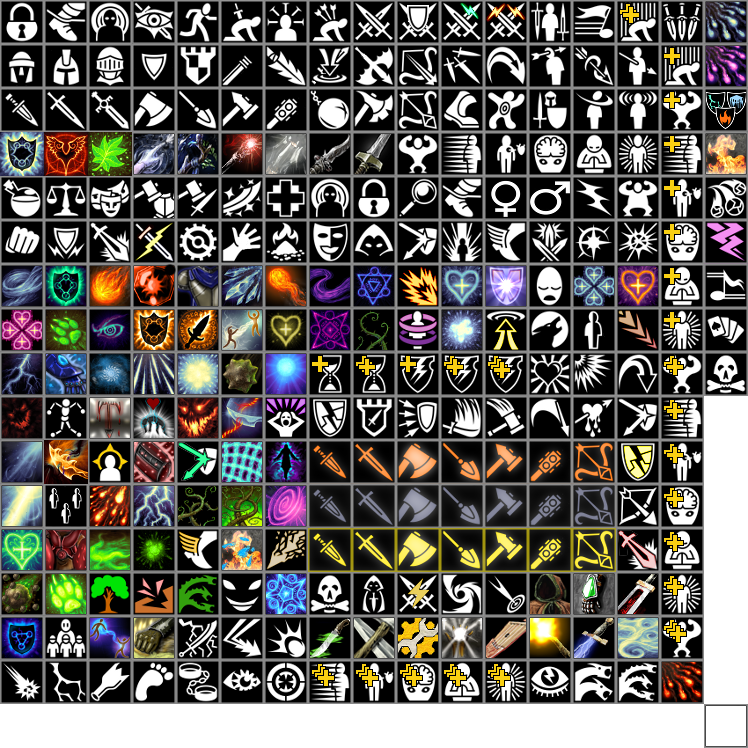
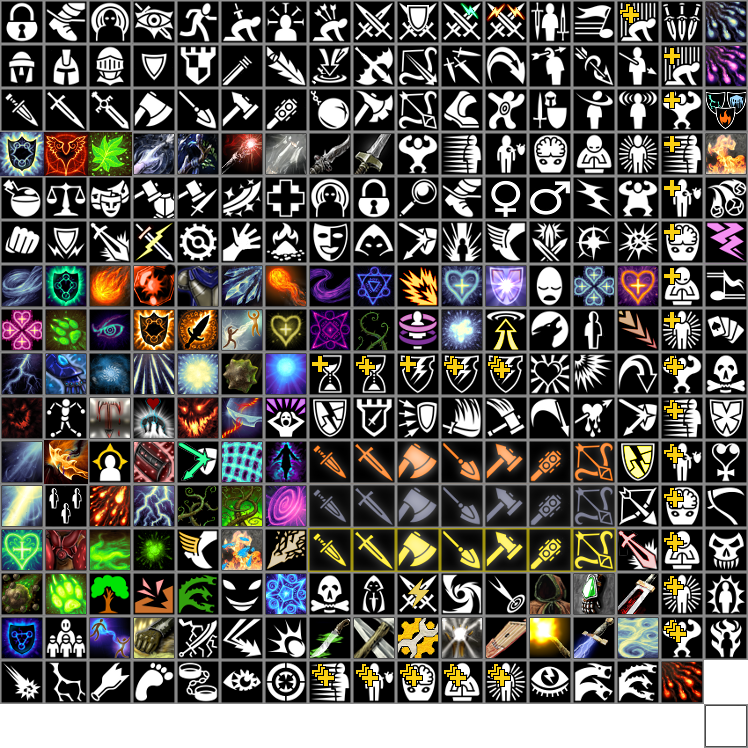
finished Bard specialization

Changed region(s): [[0.9225, 0.5227, 1.0, 0.8917]]

diff --git a/trunk/core/scripts/effects/songOfSlaying.js b/trunk/core/scripts/effects/songOfSlaying.js
@@ -3,33 +3,36 @@ function onTargetEnter(game, target, aura) {
 	var parent = slot.getParent();
 	var casterLevel = parent.getCasterLevel();
 	
-	if (parent.getFaction().isHostile(target)) {
+	if (parent.getFaction().isFriendly(target)) {
 		var targetEffect = slot.createEffect();
-		targetEffect.setTitle("Curse Song");
+		targetEffect.setTitle("Song of Slaying");
 		targetEffect.setRemoveOnDeactivate(true);
 		aura.addChildEffect(targetEffect);
 	
 		var chaBonus = (parent.stats().getCha() - 10);
 		var lvls = parent.getRoles().getLevel("Bard");
 	
-		var penalty = parseInt((lvls + chaBonus) / 2);
+		var bonus = 20 + 4 * lvls + 4 * chaBonus;
+		var halfBonus = parseInt(bonus / 2);
 	
-		targetEffect.getBonuses().addPenalty('Dex', 'Luck', -penalty);
-		targetEffect.getBonuses().addPenalty('Str', 'Luck', -penalty);
+		targetEffect.getBonuses().addBonus('Damage', 'Luck', bonus);
+		targetEffect.getBonuses().addBonus('SpellDamage', 'Luck', halfBonus);
 		
-		if (parent.getAbilities().has("SongOfEnemies"))
-			targetEffect.getBonuses().addPenalty('Attack', 'Luck', -10 - chaBonus);
+		if (parent.getAbilities().has("SongOfAllies"))
+			targetEffect.getBonuses().addBonus('Con', 'Luck', parseInt(chaBonus / 2) );
 		
 		target.applyEffect(targetEffect);
-	} else if (parent.getAbilities().has("SongOfAllies") && parent.getFaction().isFriendly(target)) {
+	} else if (parent.getAbilities().has("SongOfEnemies") && parent.getFaction().isHostile(target)) {
+	
 		var targetEffect = slot.createEffect();
-		targetEffect.setTitle("Curse Song");
+		targetEffect.setTitle("Song of Slaying");
 		targetEffect.setRemoveOnDeactivate(true);
 		aura.addChildEffect(targetEffect);
 	
 		var chaBonus = (parent.stats().getCha() - 10);
 		
-		targetEffect.getBonuses().addBonus('Con', 'Luck', parseInt(chaBonus / 2) );
+		targetEffect.getBonuses().addPenalty('Attack', 'Luck', -10 - chaBonus);
+		
 		target.applyEffect(targetEffect);
 	}
 }
@@ -37,12 +40,12 @@ function onTargetEnter(game, target, aura) {
 function onTargetExit(game, target, aura) {
 	var parent = aura.getSlot().getParent();
 
-	if (parent.getFaction().isHostile(target)) {
+	if (parent.getFaction().isFriendly(target)) {
 		var targetEffect = aura.getChildEffectWithTarget(target);
    
 		target.removeEffect(targetEffect);
 		aura.removeChildEffect(targetEffect);
-	} else if (parent.getAbilities().has("SongOfAllies") && parent.getFaction().isFriendly(target)) {
+	} else if (parent.getAbilities().has("SongOfEnemies") && parent.getFaction().isHostile(target)) {
 		var targetEffect = aura.getChildEffectWithTarget(target);
    
 		target.removeEffect(targetEffect);

diff --git a/trunk/core/scripts/effects/defendersRhythm.js b/trunk/core/scripts/effects/defendersRhythm.js
@@ -3,33 +3,35 @@ function onTargetEnter(game, target, aura) {
 	var parent = slot.getParent();
 	var casterLevel = parent.getCasterLevel();
 	
-	if (parent.getFaction().isHostile(target)) {
+	if (parent.getFaction().isFriendly(target)) {
 		var targetEffect = slot.createEffect();
-		targetEffect.setTitle("Curse Song");
+		targetEffect.setTitle("Defender's Rhythm");
 		targetEffect.setRemoveOnDeactivate(true);
 		aura.addChildEffect(targetEffect);
 	
 		var chaBonus = (parent.stats().getCha() - 10);
 		var lvls = parent.getRoles().getLevel("Bard");
 	
-		var penalty = parseInt((lvls + chaBonus) / 2);
+		var bonus = 10 + 2 * lvls + 2 * chaBonus;
 	
-		targetEffect.getBonuses().addPenalty('Dex', 'Luck', -penalty);
-		targetEffect.getBonuses().addPenalty('Str', 'Luck', -penalty);
+		targetEffect.getBonuses().addBonus('ArmorClass', 'Luck', bonus);
+		targetEffect.getBonuses().addBonus('ArmorPenalty', 'Luck', bonus);
 		
-		if (parent.getAbilities().has("SongOfEnemies"))
-			targetEffect.getBonuses().addPenalty('Attack', 'Luck', -10 - chaBonus);
+		if (parent.getAbilities().has("SongOfAllies"))
+			targetEffect.getBonuses().addBonus('Con', 'Luck', parseInt(chaBonus / 2) );
 		
 		target.applyEffect(targetEffect);
-	} else if (parent.getAbilities().has("SongOfAllies") && parent.getFaction().isFriendly(target)) {
+	} else if (parent.getAbilities().has("SongOfEnemies") && parent.getFaction().isHostile(target)) {
+	
 		var targetEffect = slot.createEffect();
-		targetEffect.setTitle("Curse Song");
+		targetEffect.setTitle("Defender's Rhythm");
 		targetEffect.setRemoveOnDeactivate(true);
 		aura.addChildEffect(targetEffect);
 	
 		var chaBonus = (parent.stats().getCha() - 10);
 		
-		targetEffect.getBonuses().addBonus('Con', 'Luck', parseInt(chaBonus / 2) );
+		targetEffect.getBonuses().addPenalty('Attack', 'Luck', -10 - chaBonus);
+		
 		target.applyEffect(targetEffect);
 	}
 }
@@ -37,12 +39,12 @@ function onTargetEnter(game, target, aura) {
 function onTargetExit(game, target, aura) {
 	var parent = aura.getSlot().getParent();
 
-	if (parent.getFaction().isHostile(target)) {
+	if (parent.getFaction().isFriendly(target)) {
 		var targetEffect = aura.getChildEffectWithTarget(target);
    
 		target.removeEffect(targetEffect);
 		aura.removeChildEffect(targetEffect);
-	} else if (parent.getAbilities().has("SongOfAllies") && parent.getFaction().isFriendly(target)) {
+	} else if (parent.getAbilities().has("SongOfEnemies") && parent.getFaction().isHostile(target)) {
 		var targetEffect = aura.getChildEffectWithTarget(target);
    
 		target.removeEffect(targetEffect);

diff --git a/trunk/core/scripts/effects/healingSong.js b/trunk/core/scripts/effects/healingSong.js
@@ -1,3 +1,19 @@
+function onRoundElapsed(game, aura) {
+	var parent = aura.getSlot().getParent();
+	
+	var chaBonus = (parent.stats().getCha() - 10);
+	var lvls = parent.getRoles().getLevel("Bard");
+	
+	var bonus = parseInt( (chaBonus + lvls) / 2 );
+
+    var targets = game.currentArea().getAffectedCreatures(aura);
+	for (var i = 0; i < targets.size(); i++) {
+		var target = targets.get(i);
+		
+		target.healDamage(bonus);
+	}
+}
+
 function onTargetEnter(game, target, aura) {
 	var slot = aura.getSlot();
 	var parent = slot.getParent();
@@ -5,19 +21,11 @@ function onTargetEnter(game, target, aura) {
 	
 	if (parent.getFaction().isFriendly(target)) {
 		var targetEffect = slot.createEffect();
-		targetEffect.setTitle("Song of Luck");
+		targetEffect.setTitle("Healing Song");
 		targetEffect.setRemoveOnDeactivate(true);
 		aura.addChildEffect(targetEffect);
 	
 		var chaBonus = (parent.stats().getCha() - 10);
-		var lvls = parent.getRoles().getLevel("Bard");
-	
-		var bonus = 10 + 2 * lvls + 2 * chaBonus;
-	
-		targetEffect.getBonuses().addBonus('Attack', 'Luck', bonus);
-		targetEffect.getBonuses().addBonus('SpellFailure', 'Luck', bonus);
-		targetEffect.getBonuses().addSkillBonus('Locks', 'Luck', bonus);
-		targetEffect.getBonuses().addSkillBonus('Traps', 'Luck', bonus);
 		
 		if (parent.getAbilities().has("SongOfAllies"))
 			targetEffect.getBonuses().addBonus('Con', 'Luck', parseInt(chaBonus / 2) );
@@ -26,7 +34,7 @@ function onTargetEnter(game, target, aura) {
 	} else if (parent.getAbilities().has("SongOfEnemies") && parent.getFaction().isHostile(target)) {
 	
 		var targetEffect = slot.createEffect();
-		targetEffect.setTitle("Song of Luck");
+		targetEffect.setTitle("Healing Song");
 		targetEffect.setRemoveOnDeactivate(true);
 		aura.addChildEffect(targetEffect);
 	

diff --git a/trunk/core/scripts/effects/mortalitySong.js b/trunk/core/scripts/effects/mortalitySong.js
@@ -5,17 +5,18 @@ function onTargetEnter(game, target, aura) {
 	
 	if (parent.getFaction().isHostile(target)) {
 		var targetEffect = slot.createEffect();
-		targetEffect.setTitle("Curse Song");
+		targetEffect.setTitle("Mortality Song");
 		targetEffect.setRemoveOnDeactivate(true);
 		aura.addChildEffect(targetEffect);
 	
 		var chaBonus = (parent.stats().getCha() - 10);
 		var lvls = parent.getRoles().getLevel("Bard");
 	
-		var penalty = parseInt((lvls + chaBonus) / 2);
+		var conPenalty = parseInt((lvls + chaBonus) / 2);
+		var acPenalty = 10 + 2 * lvls + 2 * chaBonus;
 	
-		targetEffect.getBonuses().addPenalty('Dex', 'Luck', -penalty);
-		targetEffect.getBonuses().addPenalty('Str', 'Luck', -penalty);
+		targetEffect.getBonuses().addPenalty('Con', 'Luck', -conPenalty);
+		targetEffect.getBonuses().addPenalty('ArmorClass', 'Stackable', -acPenalty);
 		
 		if (parent.getAbilities().has("SongOfEnemies"))
 			targetEffect.getBonuses().addPenalty('Attack', 'Luck', -10 - chaBonus);
@@ -23,7 +24,7 @@ function onTargetEnter(game, target, aura) {
 		target.applyEffect(targetEffect);
 	} else if (parent.getAbilities().has("SongOfAllies") && parent.getFaction().isFriendly(target)) {
 		var targetEffect = slot.createEffect();
-		targetEffect.setTitle("Curse Song");
+		targetEffect.setTitle("Mortality Song");
 		targetEffect.setRemoveOnDeactivate(true);
 		aura.addChildEffect(targetEffect);
 	

diff --git a/trunk/core/scripts/abilities/bardsong.js b/trunk/core/scripts/abilities/bardsong.js
@@ -28,24 +28,34 @@ function enableSong(game, slot, song) {
 	slot.activate();
 }
 
+function addButton(game, slot, cbFunc, name) {
+	var cb = game.createButtonCallback(slot, "enableSong");
+	cb.addArgument(cbFunc);
+	game.addMenuButton(name, cb);
+}
+
 function onActivate(game, slot) {
 	var abilities = slot.getParent().getAbilities();
 
 	game.addMenuLevel("Bardsong");
 	
-	if (abilities.has("SongOfLuck")) {
-		var cb = game.createButtonCallback(slot, "enableSong");
-		cb.addArgument("songOfLuck");
-		
-		game.addMenuButton("Song of Luck", cb);
-	}
+	if (abilities.has("SongOfLuck"))
+		addButton(game, slot, "songOfLuck", "Song of Luck");
 	
-	if (abilities.has("CurseSong")) {
-		var cb = game.createButtonCallback(slot, "enableSong");
-		cb.addArgument("curseSong");
+	if (abilities.has("SongOfSlaying"))
+		addButton(game, slot, "songOfSlaying", "Song of Slaying");
+	
+	if (abilities.has("DefendersRhythm"))
+		addButton(game, slot, "defendersRhythm", "Defender's Rhythm");
+	
+	if (abilities.has("HealingSong"))
+		addButton(game, slot, "healingSong", "Healing Song");
 		
-		game.addMenuButton("Curse Song", cb);
-	}
+	if (abilities.has("CurseSong"))
+		addButton(game, slot, "curseSong", "Curse Song");
+	
+	if (abilities.has("MortalitySong"))
+		addButton(game, slot, "mortalitySong", "Mortality Song");
 	
 	game.showMenu();
 }

diff --git a/trunk/src/net/sf/hale/characterbuilder/Buildable.java b/trunk/src/net/sf/hale/characterbuilder/Buildable.java
@@ -516,15 +516,25 @@ public class Buildable {
 	 */
 	
 	protected void applySelectionsToCreature() {
-		if (selectedRole != null)
+		Quickbar quickbar = creature.getQuickbar();
+		
+		if (selectedRole != null) {
 			creature.getRoles().addLevels(selectedRole, 1);
+			
+			int curLevel = creature.getRoles().getLevel(selectedRole);
+			
+			// check all added abilities to see if they are activateable; if so add them to the quickbar
+			for (Ability ability : selectedRole.getAbilitiesAddedAtLevel(curLevel)) {
+				if (quickbar != null && ability.isActivateable())
+					quickbar.addToFirstEmptySlot(ability);
+			}
+		}
 		
 		if (selectedSkills != null) {
 			creature.getSkillSet().addRanksFromList(selectedSkills);
 			creature.setUnspentSkillPoints(selectedUnspentSkillPoints);
 		}
 		
-		Quickbar quickbar = creature.getQuickbar();
 		int level = getCreatureLevel();
 		for (Ability ability : selectedAbilities) {
 			creature.getAbilities().add(ability, level - 1);
